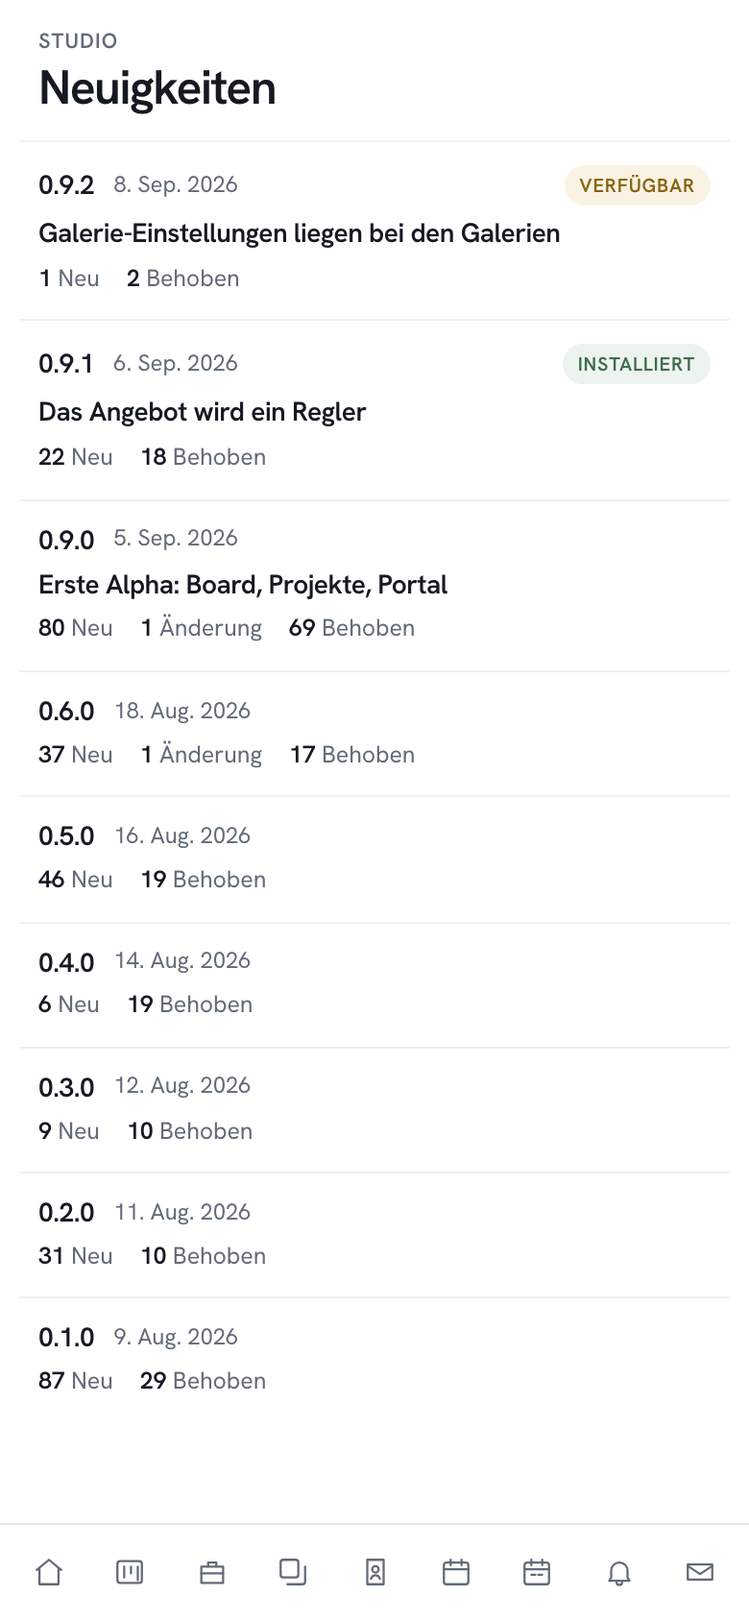
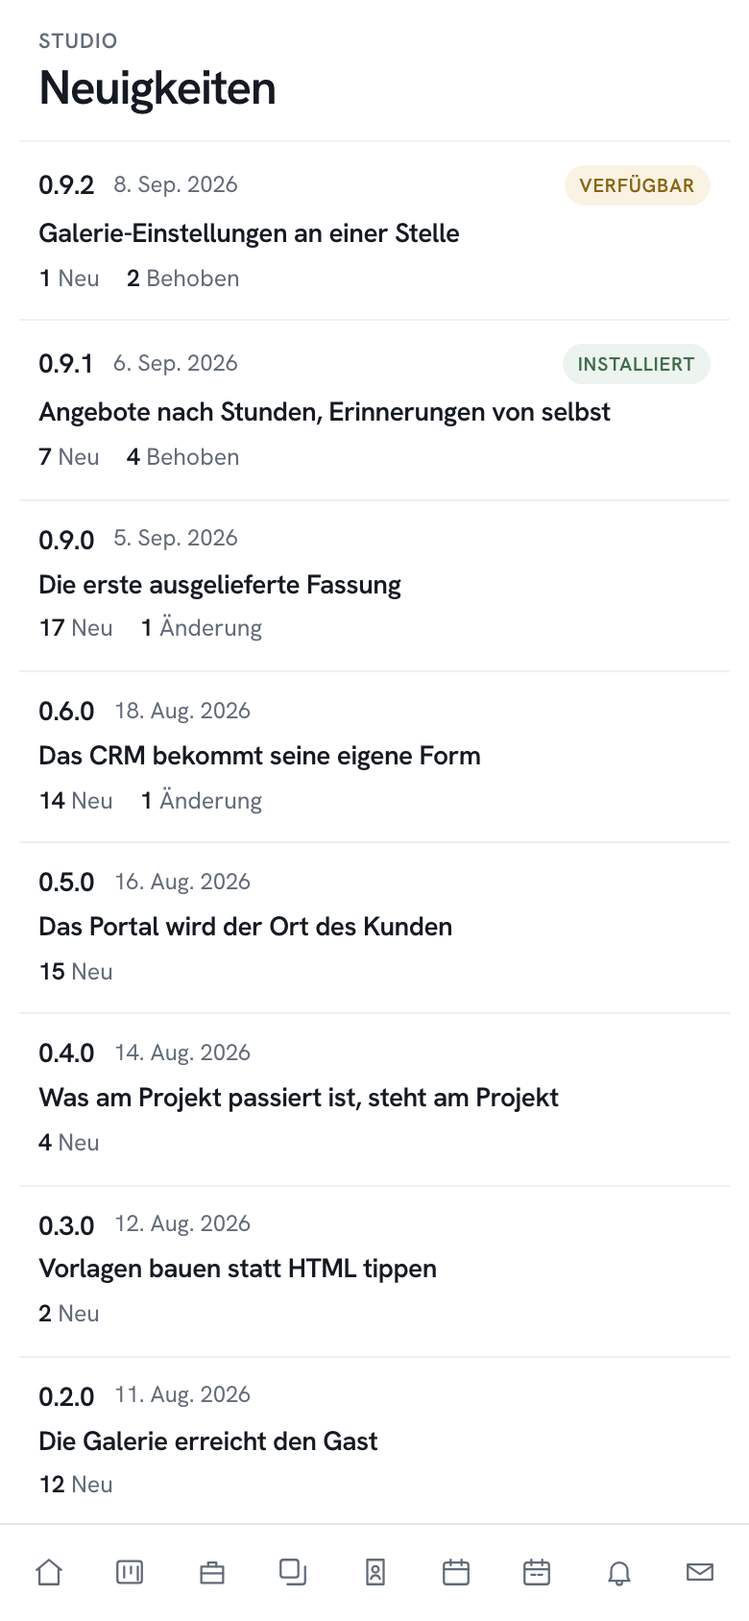
docs: Entwürfe auf die kuratierten Releases ziehen
release-log führt inzwischen headline, body und Einträge in der Sprache
des Fotografen — 95 statt 514 Zeilen, "Download-Link in der Fertigmeldung
lief nie ab" statt eines Commit-Betreffs. Damit fallen beide offenen
Punkte aus §7 weg und die erfundenen headlines aus dem Feed.

diff --git a/docs/mockups/2026-09-08-neuigkeiten/Detail.dc.html b/docs/mockups/2026-09-08-neuigkeiten/Detail.dc.html
@@ -52,7 +52,7 @@
   </style>
 </helmet>
 
-<div style="display:flex; min-height:2260px; background:#FFFFFF">
+<div style="display:flex; min-height:1240px; background:#FFFFFF">
 
   <nav style="width:214px; flex:none; display:flex; flex-direction:column; padding:18px 12px">
     <a href="#" style="display:flex; align-items:center; margin-bottom:1px; padding:0 10px 22px; font:600 17px/1 'Hanken Grotesk', system-ui, sans-serif; letter-spacing:-.024em; color:#151A22">Nordlicht</a>
@@ -102,11 +102,13 @@
         <span style="font:400 13px/1 'Hanken Grotesk', system-ui, sans-serif; color:#626B78; font-variant-numeric:tabular-nums">6. Sep. 2026</span>
         <span class="chip" style="background:#EDF3EE; color:#3F6B4A">Installiert</span>
       </div>
-      <div style="margin-top:14px; font:600 18px/1.3 'Hanken Grotesk', system-ui, sans-serif; letter-spacing:-.022em">Das Angebot wird ein Regler</div>
+      <div style="margin-top:14px; font:600 18px/1.3 'Hanken Grotesk', system-ui, sans-serif; letter-spacing:-.022em">Angebote nach Stunden, Erinnerungen von selbst</div>
+      <p style="margin:12px 0 0; max-width:620px; font:400 13px/1.6 'Hanken Grotesk', system-ui, sans-serif; color:#626B78">Ein Angebot kann jetzt ein Stundenregler mit Bausteinen sein, den der Kunde im Portal selbst einstellt. Offene Aufgaben, unbeantwortete Anfragen und überfällige Raten erinnern in wachsenden Abständen, wahlweise als Tagesüberblick.</p>
+      <p style="margin:12px 0 0; max-width:620px; font:400 13px/1.6 'Hanken Grotesk', system-ui, sans-serif; color:#626B78">Dazu ein eigenes Mail-Layout mit zwei Absenderrollen und eine neue Farb- und Schriftrichtung: kühles Petrol und Hanken Grotesk statt Rost-Orange.</p>
     </div>
 
     <div style="padding:20px 32px 0">
-      <img src="0.9.1-angebot-regler.jpg" alt="Das Angebot als Regler im Portal" style="display:block; width:560px; border-radius:12px; border:1px solid #E2E7EB">
+      <img src="0.9.1-angebot-regler.jpg" alt="Angebot mit Stundenregler im Portal" style="display:block; width:560px; border-radius:12px; border:1px solid #E2E7EB">
     </div>
 
     <div style="display:flex; gap:8px; padding:24px 32px 0">
@@ -139,7 +141,7 @@
 </div>
 </x-dc>
 
-<script data-dc-script data-props='{"$preview":{"width":1440,"height":2260}}'>
+<script data-dc-script data-props='{"$preview":{"width":1440,"height":1240}}'>
 class Component extends DCLogic {
   constructor(props) {
     super(props);
@@ -150,53 +152,24 @@ class Component extends DCLogic {
     // Titel und Beschreibungen stehen so in release-log/releases/0.9.1.json.
     const sections = [
       {
-        key: "feat", label: "Neu", bg: "#EDF3EE", fg: "#3F6B4A",
+        key: "new", label: "Neu", bg: "#EDF3EE", fg: "#3F6B4A",
         alle: [
-          { titel: "Regler im Portal, Bausteine im Studio", text: "Q-13 und Q-14, dazu die Bildpflege aus Q-10 an Katalog und Einstellungen.\n\nBildpfade kommen nie aus einem Formular zurueck: das Angebot liefert die\nDatei an den Kunden aus, und ein uebernommener Pfad waere das Lesen jeder\nDatei auf dem Disk. Das Formular schickt die id, der Controller schlaegt\nden Pfad an der eigenen Zeile nach." },
-          { titel: "Angebot als Regler — Felder, Regel und Annahme", text: "Q-08 bis Q-12 und Q-15 auf der Serverseite. hourly_rate null ist die\nWeiche: jedes bestehende Angebot faellt darunter und bleibt eine\nPositionsliste.\n\ntotal wird nicht ersetzt, es entsteht spaeter — AcceptQuote schreibt es\nzusammen mit hours und der Auswahl, danach gilt fuer Board, PDF und\nZahlungsplan wieder genau das, was vorher galt." },
-          { titel: "Anfrage auf dem Board schliessen", text: "markLost() hatte keinen Aufrufer, der Ausgang aus T-20 damit keinen\nSchreiber. Kontextmenue der Karte, Ausgang und Grund in einem Dialog." },
-          { titel: "Automationen fuer Studio, Crew und vier Anker", text: "E-14, E-15 und E-16. recipientFor() liefert eine Collection statt eines\nContacts; der Anspruch auf den AutomationRun bleibt vor dem Fanout, damit\nein zweiter Lauf am selben Tag weiterhin nichts sendet.\n\nPlatzhalter kommen aus dem Merge-Feld-Vokabular der Dokumente, nicht aus\neiner zweiten Sprache. Ein unbekanntes Feld bleibt stehen." },
-          { titel: "Erinnerungen an den Kunden", text: "T-25 und T-28. Beide Kundenwege beginnen auf der zweiten Sprosse und\nzaehlen eigene Zaehler: das Studio darf frueher und oefter erfahren, was\nder Kunde erst danach liest." },
-          { titel: "Zahlungsverzug melden und Tagesueberblick", text: "T-22 und T-23. notification_preferences.mode macht aus der Ableitung\n\"Mail aus, In-App an\" einen gespeicherten Wert, weil Zusammenfassung und\nTagesueberblick sonst nicht unterscheidbar waeren." },
-          { titel: "Erinnerungen fuer Aufgaben und Anfragen", text: "T-19, T-20 und T-24. Die Fibonacci-Leiter liegt in App\\Support, weil ab\nT-22 auch Raten auf ihr zaehlen. leads.outcome ersetzt lost_at als\nAbschlusskennzeichen; lost_at bleibt der Zeitstempel aller drei Ausgaenge." },
-          { titel: "sign and expire the zip-ready mail link", text: "The \"Herunterladen\" link in GalleryZipReady was a bare, permanent URL\nto the download screen — unlike the per-part links it hands out\n(already signed, 24h), a forwarded or leaked copy of this one worked\nforever. GalleryDownloadLink stores a reusable, hashed token instead\nof a Laravel signed route: NotifyZipWaiters runs on the queue worker,\nwhich always boots APP_SURFACE=admin (docker-compose.yml), so it has\nno portal route table to sign against the way\nGalleryDownloadController::partUrl() can from a live portal request.\nThe stored token needs no route table on either end.\n\nThe archive itself is unaffected — a stale one is still rebuilt on\nrequest from the download screen (prepare()), same as before; only\nthe mail's own link now has a bound lifetime (7 days).\n\nAlso rewrites the mail's body copy: it previously narrated the\narchive being packed and appended the part count with an em-dash\nrather than saying what the client's photos are doing." },
-          { titel: "add marketing screenshot seeder", text: "" },
-          { titel: "kühle Petrol-Palette und Hanken Grotesk statt Rost-Orange", text: "Der Rost-Akzent (#B44E22) und Instrument Sans/Serif waren das übliche\nKlischee für ein KI-generiertes Interface. Ersetzt in Admin, Portal\nund den zugehörigen Mockups:\n\n- Neutrale Rampe auf kühles Blaugrau, Akzent auf Petrol (#1C6870)\n- Instrument Sans/Serif raus, Hanken Grotesk als einzige Familie für\n  Titel und Text — kein Serif-Display mehr\n- FontPair::Instrument → FontPair::Hanken, der Default bleibt gleich\n- Dokumenten-PDF (Gotenberg) und Vorschau-Pane ziehen die Hausschrift\n  mit\n- mockups/_shared und mockups/redesign gespiegelt, da im Code als\n  Source of Truth referenziert\n\nBewusst ausgelassen: die dunkle Galerie behält ihren eigenen Akzent\n(#D4713F) und ihre statischen Klickdummy-Einzelseiten — beides war\nnicht Teil der abgestimmten Richtung.\n\nNicht in diesem Commit geprüft: Die Docker-Umgebung für Pest- und\nPlaywright-Tests konnte in dieser Session nicht gestartet werden\n(.env-Erstellung verweigert). Der FontPair-Umbenennung wurde jede\nFundstelle einzeln nachverfolgt; die 97 visuellen E2E-Baselines\nmüssen nach diesem Merge neu aufgenommen werden." },
-          { titel: "remind an unfinished studio after two days", text: "" },
-          { titel: "send the ready mail on onboarding completion", text: "Fixes blocks-message.blade.php's conditional :brand attribute inside\nthe component tag, which broke Blade's tag compiler and made every\nmail through this view a ViewException — both current callers always\npass a brand, same as product-message.blade.php already does." },
-          { titel: "send the welcome mail on studio setup", text: "" },
-          { titel: "confirm the owner's email from the wizard", text: "" },
-          { titel: "verify the owner's email by link or code", text: "" },
-          { titel: "two-brand layout via composer and explicit-brand views", text: "" },
-          { titel: "compile MJML layout and button at build time", text: "" },
-          { titel: "Team-Einladung mit Funktionsbloecken", text: "" },
-          { titel: "Adressen und Team-Einladung ueberarbeitet", text: "" },
-          { titel: "Onboarding-Mails als Clickdummy", text: "" },
-          { titel: "Rechnung braucht Steuernummer", text: "§ 14 UStG verlangt Steuernummer oder USt-IdNr., beide Starter-Vorlagen\nrendern das Paar. Seit der Wizard danach nicht mehr fragt, ist das\nAusstellen die Stelle, an der die Angabe fällig wird.\n\nDer Guard steht vor der Transaktion: eine gezogene Nummer für ein\nDokument, das nicht ausgestellt werden kann, risse eine Lücke in die\nRechnungsfolge." },
-          { titel: "Wizard auf zwei Schritte", text: "Fünf der sechs Schritte bestätigten nur Spalten-Defaults aus den\nstudio_settings-Migrationen. Was bleibt: Rechtsidentität, die niemand\nraten kann, und vat_mode, der einzige Default, der aktiv falsch sein\nkann. Steuernummer, USt-ID und Register-Paar fallen erst mit der ersten\nRechnung an.\n\nDie Starter-Vorlagen wählt der Abschluss selbst — inklusive\n\"später abschließen\", weil ein Studio ohne Vorlagen nichts ausstellen\nkann. Kleinunternehmer bekommt die Rechnung ohne USt-Ausweis." },
+          { titel: "Angebot als Stundenregler", text: "Ein Angebot muss nicht mehr eine feste Positionsliste sein. Es kann stattdessen auf einem Stundensatz stehen: der Kunde zieht im Portal den Regler auf die Stundenzahl, die er möchte, und wählt dazu Bausteine aus. Der Preis rechnet mit.\n\nIm Studio wird das eingerichtet — Stundensatz, Spannen und die Tabelle der Bausteine, jeder mit Bild und Beschreibung.\n\nBestehende Angebote bleiben unverändert Positionslisten; ohne Stundensatz greift der Regler gar nicht erst.\n\nErst die Annahme legt die Summe fest, zusammen mit der gewählten Stundenzahl und der Auswahl. Danach gilt für Board, PDF und Zahlungsplan wieder genau das, was vorher galt." },
+          { titel: "Erinnerungen für Studio, Crew und Kunden", text: "Offene Aufgaben, unbeantwortete Anfragen und überfällige Raten erinnern jetzt von selbst, in wachsenden Abständen statt täglich in gleicher Lautstärke.\n\nStudio und Kunde zählen dabei getrennt: der Kunde bekommt seine erste Erinnerung später und seltener. Das Studio darf früher erfahren, was der Kunde erst danach liest.\n\nDazu ein Tagesüberblick als eine Nachricht statt vieler einzelner. Ob jemand einzelne Meldungen, eine Zusammenfassung oder den Tagesüberblick möchte, ist jetzt eine gespeicherte Wahl und keine Ableitung aus \"Mail aus, In-App an\".\n\nAutomatisierungsregeln erreichen jetzt auch das Studio und die eingeteilte Crew, nicht nur den Kunden, und es gibt vier neue Zeitpunkte, an die sich eine Regel hängen kann. Die Platzhalter sind dieselben wie in den Dokumentvorlagen; ein unbekanntes Feld bleibt sichtbar stehen, statt den Satz stillschweigend zu leeren.\n\nAufgaben bekommen eine studioweite Ansicht unter /aufgaben. Jemandem eine Aufgabe zuzuweisen ändert wenig, solange niemand sie über alle Projekte hinweg sieht." },
+          { titel: "Anfrage auf dem Board schließen", text: "Eine Anfrage ließ sich abschließen — nur gab es dafür keine Bedienung. Über das Kontextmenü der Karte wird sie jetzt geschlossen, mit Ausgang und Grund in einem Dialog." },
+          { titel: "E-Mails aus einem Guss", text: "Die Mails standen bisher auf Laravels Standardvorlage. Sie haben jetzt ein eigenes Layout mit zwei Absenderrollen: die Mail des Produkts an das Studio und die Mail des Studios an seine Kunden tragen jeweils die richtige Marke im Kopf.\n\nNeu dazu: eine Willkommensmail bei der Einrichtung, eine Nachricht, wenn das Studio startklar ist, und nach zwei Tagen eine Erinnerung an eine unfertige Einrichtung.\n\nDie Adresse des Inhabers wird beim Einrichten bestätigt, per Link oder mit einem Code.\n\nDabei behoben, jeweils sichtbar in jeder betroffenen Mail: Fußzeilen fehlten vollständig, Überschriften standen als \"# \" im Text, Fettung als Sternchen und der Abmeldelink als toter Text statt als Link. Die Hilfszeile unter jeder Schaltfläche stand auf Englisch, neun Schaltflächen zeigten auf einen unvollständigen Pfad, den kein Mailprogramm auflösen kann, und jede Mail trug zwei Absenderzeilen übereinander. Die Einladung an Mitarbeiter kündigte weiterhin eine Pflicht zur Zwei-Faktor-Bestätigung an, die längst freiwillig ist." },
+          { titel: "Kühles Petrol statt Rost-Orange", text: "Der rostorange Akzent und das Schriftpaar Instrument waren das übliche Klischee für eine maschinell entworfene Oberfläche.\n\nDie neutrale Skala wird kühles Blaugrau, der Akzent Petrol. Hanken Grotesk ersetzt Instrument als einzige Familie für Titel und Text; ein eigenes Serif-Display gibt es nicht mehr. Dokument-PDF und Vorschau ziehen die Hausschrift mit.\n\nDie dunkle Galerie behält bewusst ihren eigenen Akzent — sie war nicht Teil dieser Richtung." },
+          { titel: "Einrichtung auf zwei Schritte", text: "Fünf der sechs Schritte bestätigten nur Voreinstellungen. Übrig bleibt, was niemand raten kann: die Rechtsidentität und der Umsatzsteuermodus — die einzige Voreinstellung, die aktiv falsch sein kann.\n\nSteuernummer, USt-IdNr. und Registerangaben fallen erst mit der ersten Rechnung an. Die Auswahl der Startvorlagen macht der Abschluss selbst, samt \"später abschließen\" — ohne Vorlagen lässt sich nichts ausstellen." },
+          { titel: "Rechnung verlangt die Steuernummer", text: "§ 14 UStG verlangt Steuernummer oder USt-IdNr. Seit der Einrichtungsassistent nicht mehr danach fragt, ist das Ausstellen der Moment, an dem die Angabe fällig wird.\n\nGeprüft wird, bevor eine Nummer gezogen wird: eine vergebene Nummer für ein Dokument, das sich nicht ausstellen lässt, risse eine Lücke in die Rechnungsfolge." },
         ],
       },
       {
-        key: "fix", label: "Behoben", bg: "#F0F3F5", fg: "#626B78",
+        key: "fixed", label: "Behoben", bg: "#F0F3F5", fg: "#626B78",
         alle: [
-          { titel: "Regler-Screens an die Entwuerfe angleichen", text: "Beide Flaechen nach den HTML-Vorlagen: Reihenfolge, Raster mit acht bzw.\nzwoelf Spalten, Haken auf der Baustein-Kachel, Rail als Karte mit\nTrennlinien; im Studio die 112-px-Rinne, die Tabelle der Bausteine und\ndie drei Spannen-Kacheln.\n\ntext-accent zeigte auf --hover statt auf die Markenfarbe — drei Stellen,\nzwei davon aus der Runde davor." },
-          { titel: "Flaechen an die Mockups angleichen", text: "Ereignisregeln waren ueber ihre eigene Flaeche nicht speicherbar: der\nValidator verlangte Anker und Abstand, die AutomationRule::booted() bei\neiner Ereignisregel gerade verbietet.\n\nDazu die Aufgabenflaeche des Studios (/aufgaben) aus t-24, die es noch\nnicht gab — eine Zuweisung ohne studioweite Sicht darauf aendert nichts." },
-          { titel: "Fusszeile in die Fusszone statt in den Rumpf", text: "Die Views setzten <x-slot:footer>, das kompilierte Layout las $subcopy.\nBlade wirft bei einem nie ausgegebenen Slot nicht, also verschwand jede\nFusszeile still. Signatur und Rechtszeile hingen zugleich als ->line()\nim Rumpf.\n\nlayout.mjml bekommt eine eigene, per @if uebersprungene Fusszone. Beide\nFusszeilen bildet jetzt der mail::layout-Composer: Blade reicht Ansichts-\ndaten in keine verschachtelte Komponente, deshalb erreicht nur er den\nScope des Layouts -- aus demselben Grund wird dort schon brand aufgeloest." },
-          { titel: "parse markdown in the compiled layout slot", text: "The MJML-compiled layout.blade.php echoed $slot raw instead of\nrunning it through Illuminate\\Mail\\Markdown::parse(), unlike Laravel's\nown stock layout it replaced. Every notification's greeting rendered\nas a literal \"# \" heading, **bold** stayed literal asterisks, and\nQuoteSent's [unsubscribe](url) markdown link rendered as dead text\ninstead of an anchor — a live compliance-link bug. button.mjml's slot\n(the label text) is left unparsed; only layout.mjml's __SLOT__ needed\nthis." },
-          { titel: "translate the action-button subcopy to German", text: "Laravel's default \"If you're having trouble clicking...\" action\nsubcopy has no German override anywhere in lang/, so it rendered in\nEnglish on every client mail with a button despite app.locale=de." },
-          { titel: "seed a real comment, precondition docblock", text: "MarketingScreenshotSeeder now seeds one AssetComment so the\n\"mit Favoriten und Kommentaren\" gallery-detail screenshot shows a real\ncomment, not just a favorite. Docblock spells out the precondition the\ncapture pass depends on: run alone against a freshly migrated DB, never\non top of DemoCrmSeeder.\n\nAlso fixes two stale apps/marketing mentions in the marketing-page\ndesign spec that predate the repo-split decision §4/§8 already made." },
-          { titel: "attach real photos to marketing gallery", text: "Melissa & Jan's published gallery had zero Asset rows, defeating the\nscreenshot capture task's gallery grid/detail shots. Reuses\nE2eSeeder's flat-JPEG-to-s3-disk pattern to attach 7 placeholder\nphotos and mark two as favorites." },
-          { titel: "register SendStudioDigestsCommand", text: "notifications:send-digests was never listed in withCommands(), so the\nscheduled call in routes/console.php resolved to nothing." },
-          { titel: "hide the code field without a live record", text: "UserEmailVerification expires after 30 minutes or 5 attempts, and\nthere is no resend, so the form could only fail from then on." },
-          { titel: "absolute CTA links and honest address count", text: "Nine buttons carried bare paths, which no mail client resolves.\n\nStudioReady announced \"zwei eigene Adressen\" even though\ninbound_secret is null until a studio rotates one by hand, so the\ninbound block only ships when there is an address to show." },
-          { titel: "unnest the button and drop Laravel chrome", text: "MJML compiles every source into a complete HTML document, so each\n<x-mail::button> embedded a second <html>/<head>/<style> inside the\nouter layout. Non-layout sources now keep only their <body> content.\n\n__HEADER__/__FOOTER__ rendered Laravel's own unpublished header and\nits English copyright line next to our brand banner — two wordmarks\nper mail. The layout's own banner carries the identity." },
-          { titel: "replace StaffInvited's stale 2FA line with real blocks", text: "Drops the \"richtest du die Zwei-Faktor-Bestätigung ein\" line (MFA is\nopt-in per InvitationController) and adds calendar-subscription and\nreply-threading blocks via mail.blocks-message.\n\nFixes the composer fallback that path needed: blocks-message.blade.php\nunconditionally referenced $brand, which only product mails ever set,\nso the studio path (no explicit brand) threw an undefined-variable\nerror instead of falling through to the mail::layout composer default." },
-          { titel: "fallback body for unrotated inbound secret", text: "StudioReady rendered a dangling \"Die kannst du...\" fragment when\ninbound_secret was null, which it is by default for every studio\nuntil they opt into RotateInboundSecret." },
-          { titel: "allowlist the email-verification link route", text: "" },
-          { titel: "API-Client mit Bearer der Session", text: "Der Client wurde einmal beim Start aus CRM_API_TOKEN gebaut, und die\nVariable ist nirgends gesetzt. Jeder Tool-Aufruf traf die api-Surface\nalso ohne Authorization, bekam den 302 nach /login und damit HTML statt\neiner Fehlermeldung — \"The api surface returned an error with no\nmessage.\" Der Token aus der OAuth-Session lag in req.auth und wurde nie\nbenutzt.\n\nJetzt baut jeder Aufruf seinen Client aus extra.authInfo. Ohne Session\n(stdio) bleibt CRM_API_TOKEN der Fallback." },
-          { titel: "Reassurance im Einladungsblock ersetzt", text: "" },
-          { titel: "2FA-Block und erfundene Grussformeln raus", text: "" },
-          { titel: "Portal-Links gegen den Portal-Host", text: "QuoteSent baute Angebots- und Abmelde-Link mit url(), also gegen APP_URL.\nVersendet wird aus SendQuote auf der Admin-Oberfläche, und eine in die\nRuhezeit gefallene DeferredNotification rendert toMail() später auf dem\nWorker, der ebenfalls admin ist. Beide Male stand der Studio-Host vor\neiner Route, die nur das Portal bedient. Jetzt config('portal.url').\n\nDie übrigen Portal-Mails bauen ihre URL im Portal-Request und reichen sie\nals String weiter; dort bleibt url() richtig.\n\nAPP_URL von horizon und scheduler zeigt wieder auf die eigene Oberfläche.\n60b58807 hatte beide auf die Portal-Domain gesetzt, um genau diesen\nFehler zu umgehen, wodurch StudioDigests /benachrichtigungen den\nPortal-Host bekam; PORTAL_URL steht jetzt explizit auf beiden. Regel 5 im\nCompose-Checker hält APP_URL und APP_SURFACE zusammen." },
+          { titel: "KI-Assistent erreichte die Schnittstelle nicht", text: "Jeder Werkzeugaufruf lief ohne Anmeldung gegen die Schnittstelle, bekam die Weiterleitung zur Anmeldeseite und damit HTML statt einer Antwort. Nach außen sah das aus wie \"die Schnittstelle meldet einen Fehler ohne Meldung\".\n\nDer Zugang aus der laufenden Sitzung lag bereit und wurde nie verwendet. Jetzt baut jeder Aufruf seine Verbindung daraus." },
+          { titel: "Angebotsmail verwies auf den falschen Host", text: "Der Link zum Angebot und der Abmeldelink zeigten auf den Studio-Host, obwohl beide Adressen nur das Portal bedient. Betroffen war jede Angebotsmail, sowohl der sofortige Versand als auch der, der wegen einer Ruhezeit später herausging." },
+          { titel: "Download-Link in der Fertigmeldung lief nie ab", text: "Die Meldung \"Archiv fertig\" enthielt einen unbefristeten Link auf die Download-Seite — anders als die Links auf die einzelnen Archivteile, die nach 24 Stunden ablaufen. Eine weitergeleitete oder abgefangene Kopie funktionierte damit dauerhaft.\n\nDer Link gilt jetzt sieben Tage. Am Archiv selbst ändert sich nichts; ein veraltetes wird auf der Download-Seite weiterhin neu gebaut." },
+          { titel: "Ereignisregeln ließen sich nicht speichern", text: "Eine Automatisierungsregel, die auf ein Ereignis hört, war über ihre eigene Fläche nicht speicherbar: die Prüfung verlangte Anker und Abstand, die eine Ereignisregel gerade nicht haben darf." },
         ],
       }
     ];
@@ -206,6 +179,7 @@ class Component extends DCLogic {
     const pfeilAuf = 'M6 9l6 6 6-6';
 
     return {
+      update: true,
       f: {
         alle: () => this.setState({ filter: 'alle' }),
         alleOn: filter === 'alle' ? 'on' : '',

diff --git a/docs/mockups/2026-09-08-neuigkeiten/Mobil.dc.html b/docs/mockups/2026-09-08-neuigkeiten/Mobil.dc.html
@@ -99,15 +99,15 @@ class Component extends DCLogic {
     const INSTALLIERT = { marke: 'Installiert', markeBg: '#EDF3EE', markeFg: '#3F6B4A' };
 
     const roh = [
-      { nummer: '0.9.2', datum: '8. Sep. 2026', ...VERFUEGBAR, headline: 'Galerie-Einstellungen liegen bei den Galerien', feat: 1, perf: 0, fix: 2 },
-      { nummer: '0.9.1', datum: '6. Sep. 2026', ...INSTALLIERT, headline: 'Das Angebot wird ein Regler', feat: 22, perf: 0, fix: 18 },
-      { nummer: '0.9.0', datum: '5. Sep. 2026', headline: 'Erste Alpha: Board, Projekte, Portal', feat: 80, perf: 1, fix: 69 },
-      { nummer: '0.6.0', datum: '18. Aug. 2026', headline: null, feat: 37, perf: 1, fix: 17 },
-      { nummer: '0.5.0', datum: '16. Aug. 2026', headline: null, feat: 46, perf: 0, fix: 19 },
-      { nummer: '0.4.0', datum: '14. Aug. 2026', headline: null, feat: 6, perf: 0, fix: 19 },
-      { nummer: '0.3.0', datum: '12. Aug. 2026', headline: null, feat: 9, perf: 0, fix: 10 },
-      { nummer: '0.2.0', datum: '11. Aug. 2026', headline: null, feat: 31, perf: 0, fix: 10 },
-      { nummer: '0.1.0', datum: '9. Aug. 2026', headline: null, feat: 87, perf: 0, fix: 29 },
+      { nummer: "0.9.2", datum: "8. Sep. 2026", ...VERFUEGBAR, headline: "Galerie-Einstellungen an einer Stelle", feat: 1, perf: 0, fix: 2 },
+      { nummer: "0.9.1", datum: "6. Sep. 2026", ...INSTALLIERT, headline: "Angebote nach Stunden, Erinnerungen von selbst", feat: 7, perf: 0, fix: 4 },
+      { nummer: "0.9.0", datum: "5. Sep. 2026", headline: "Die erste ausgelieferte Fassung", feat: 17, perf: 1, fix: 0 },
+      { nummer: "0.6.0", datum: "18. Aug. 2026", headline: "Das CRM bekommt seine eigene Form", feat: 14, perf: 1, fix: 0 },
+      { nummer: "0.5.0", datum: "16. Aug. 2026", headline: "Das Portal wird der Ort des Kunden", feat: 15, perf: 0, fix: 0 },
+      { nummer: "0.4.0", datum: "14. Aug. 2026", headline: "Was am Projekt passiert ist, steht am Projekt", feat: 4, perf: 0, fix: 0 },
+      { nummer: "0.3.0", datum: "12. Aug. 2026", headline: "Vorlagen bauen statt HTML tippen", feat: 2, perf: 0, fix: 0 },
+      { nummer: "0.2.0", datum: "11. Aug. 2026", headline: "Die Galerie erreicht den Gast", feat: 12, perf: 0, fix: 0 },
+      { nummer: "0.1.0", datum: "9. Aug. 2026", headline: "Vom Erstkontakt bis zur fertigen Galerie", feat: 15, perf: 0, fix: 0 },
     ];
 
     return {

diff --git a/docs/mockups/2026-09-08-neuigkeiten/Main.dc.html b/docs/mockups/2026-09-08-neuigkeiten/Main.dc.html
@@ -128,15 +128,15 @@ class Component extends DCLogic {
 
     // Die Zähler stehen so in release-log/releases/*.json.
     const roh = [
-      { nummer: '0.9.2', datum: '8. Sep. 2026', ...VERFUEGBAR, headline: 'Galerie-Einstellungen liegen bei den Galerien', feat: 1, perf: 0, fix: 2 },
-      { nummer: '0.9.1', datum: '6. Sep. 2026', ...INSTALLIERT, headline: 'Das Angebot wird ein Regler', feat: 22, perf: 0, fix: 18 },
-      { nummer: '0.9.0', datum: '5. Sep. 2026', headline: 'Erste Alpha: Board, Projekte, Portal', feat: 80, perf: 1, fix: 69 },
-      { nummer: '0.6.0', datum: '18. Aug. 2026', headline: null, feat: 37, perf: 1, fix: 17 },
-      { nummer: '0.5.0', datum: '16. Aug. 2026', headline: null, feat: 46, perf: 0, fix: 19 },
-      { nummer: '0.4.0', datum: '14. Aug. 2026', headline: null, feat: 6, perf: 0, fix: 19 },
-      { nummer: '0.3.0', datum: '12. Aug. 2026', headline: null, feat: 9, perf: 0, fix: 10 },
-      { nummer: '0.2.0', datum: '11. Aug. 2026', headline: null, feat: 31, perf: 0, fix: 10 },
-      { nummer: '0.1.0', datum: '9. Aug. 2026', headline: null, feat: 87, perf: 0, fix: 29 },
+      { nummer: "0.9.2", datum: "8. Sep. 2026", ...VERFUEGBAR, headline: "Galerie-Einstellungen an einer Stelle", feat: 1, perf: 0, fix: 2 },
+      { nummer: "0.9.1", datum: "6. Sep. 2026", ...INSTALLIERT, headline: "Angebote nach Stunden, Erinnerungen von selbst", feat: 7, perf: 0, fix: 4 },
+      { nummer: "0.9.0", datum: "5. Sep. 2026", headline: "Die erste ausgelieferte Fassung", feat: 17, perf: 1, fix: 0 },
+      { nummer: "0.6.0", datum: "18. Aug. 2026", headline: "Das CRM bekommt seine eigene Form", feat: 14, perf: 1, fix: 0 },
+      { nummer: "0.5.0", datum: "16. Aug. 2026", headline: "Das Portal wird der Ort des Kunden", feat: 15, perf: 0, fix: 0 },
+      { nummer: "0.4.0", datum: "14. Aug. 2026", headline: "Was am Projekt passiert ist, steht am Projekt", feat: 4, perf: 0, fix: 0 },
+      { nummer: "0.3.0", datum: "12. Aug. 2026", headline: "Vorlagen bauen statt HTML tippen", feat: 2, perf: 0, fix: 0 },
+      { nummer: "0.2.0", datum: "11. Aug. 2026", headline: "Die Galerie erreicht den Gast", feat: 12, perf: 0, fix: 0 },
+      { nummer: "0.1.0", datum: "9. Aug. 2026", headline: "Vom Erstkontakt bis zur fertigen Galerie", feat: 15, perf: 0, fix: 0 },
     ];
 
     return {

diff --git a/docs/superpowers/specs/2026-09-08-neuigkeiten-design.md b/docs/superpowers/specs/2026-09-08-neuigkeiten-design.md
@@ -8,8 +8,8 @@
 ## 1. Warum das existiert
 
 Das Studio wird laufend deployed, und wer davor sitzt, erfährt nichts davon.
-Neun Versionen liegen inzwischen in `release-log` — 0.1.0 bis 0.9.2, 514
-Änderungen — und keine davon ist in der Anwendung sichtbar. Ein Fotograf, dem
+Neun Versionen liegen inzwischen in `release-log` — 0.1.0 bis 0.9.2, 95
+kuratierte Einträge — und keine davon ist in der Anwendung sichtbar. Ein Fotograf, dem
 die Angebotsseite plötzlich anders aussieht, hat keine Stelle, an der steht
 warum.
 
@@ -52,17 +52,15 @@ Die Bilder sind aus den Artboard-Quellen gerendert und liegen unter
 | Bild | Artboard | Was es zeigt |
 |---|---|---|
 | `docs/screenshots/2026-09-08-neuigkeiten-studio.png` | Main | der Feed: neun Releases, Zähler je Gruppe, Version mit Punkt unten in der Sidebar |
-| `docs/screenshots/2026-09-08-neuigkeiten-release.png` | Detail | `/neuigkeiten/0.9.1`: Bild, headline, Filter, 22 + 18 Einträge |
+| `docs/screenshots/2026-09-08-neuigkeiten-release.png` | Detail | `/neuigkeiten/0.9.1`: Bild, headline, body, Filter, 7 + 4 Einträge |
 | `docs/screenshots/2026-09-08-neuigkeiten-handy.png` | Mobil | der Feed auf 390px |
 | `docs/screenshots/2026-09-08-neuigkeiten-zustaende.png` | Marker | Versionszeile in drei Zuständen, die Markierungen, die Filterpillen |
 | `docs/screenshots/2026-09-08-neuigkeiten-dienst.png` | Quelle | der Weg aus release-log, die Endpunkte, die drei Gruppen |
 
 Canvas: https://claude.ai/code/artifact/28837ea9-cb16-48fb-ae0a-fb3bc3db41a2
 
-Alle Zahlen und alle Einträge in den Entwürfen stammen aus
-`release-log/releases/*.json`. Die einzige Ausnahme sind die drei
-`headline`-Zeilen im Feed: das Feld ist heute in allen neun Releases leer, und
-ohne es zeigt der Entwurf seinen eigenen Platz nicht.
+Alle Zahlen, Überschriften und Einträge in den Entwürfen stammen aus dem
+laufenden Dienst. Nichts davon ist geschrieben.
 
 ## 4. Der Weg vom Tag in den Screen
 
@@ -86,7 +84,7 @@ Was das Studio holt:
 | Endpunkt | Antwort |
 |---|---|
 | `GET /versions` | `latest` und je Release Version, Datum, `headline`, `url`. Der Update-Check. |
-| `GET /releases?page=1` | Der Feed. Je Release nur die **Zähler** je Gruppe — 0.9.0 hat 150 Einträge, deshalb trägt der Feed keine. |
+| `GET /releases?page=1` | Der Feed. Je Release nur die **Zähler** je Gruppe, nicht die Einträge. |
 | `GET /releases/<version>` | Ein Release mit allen Einträgen, in `sections` nach Gruppe sortiert. |
 | `GET /media/<datei>` | Das Bild des Releases. Drei von neun haben eins. |
 | `GET /health` | Für Coolify. |
@@ -101,19 +99,18 @@ vergleicht, muss deshalb zuerst auf Semver prüfen: `version_compare('dev',
 `bin/from-git.mjs` sagt es im Kopf selbst: alles Faktische liest es aus git,
 `headline`, `body` und `image` sind Handarbeit und überleben jeden Lauf.
 
-Aus git: `version`, `tag`, `date`, `commits` und jeder Eintrag in `changes` —
-`type`, `scope`, `title`, `description`, `pr`, `issues`, `commit`, `date`.
-`title` ist der Commit-Betreff unverändert, `description` der Rumpf ohne
-Trailer. `feat`, `fix` und `perf` zählen; `docs`, `ci`, `chore` und `test`
-fallen raus. Ein gequetschter Pull Request wird an seinen `* `-Aufzählungen
-wieder in seine einzelnen Commits zerlegt.
+Aus git kommen die Fakten: `version`, `tag`, `date`, `commits` und je Eintrag
+`type`, `pr`, `issues`, `commit`, `date`. `feat`, `fix` und `perf` zählen;
+`docs`, `ci`, `chore` und `test` fallen raus.
 
-Von Hand: `headline` ist der Satz, den der Fotograf im Feed liest. `body` sind
-Absätze darunter. `image` ist ein Screenshot aus `release-log/media/`.
+Von Hand kommt alles, was gelesen wird: `headline`, `body`, `image` je Release,
+und `title` und `description` je Eintrag. Der Dienst führt inzwischen 95
+Einträge statt der 514 Commits, die dahinterstehen — mehrere Commits an
+derselben Sache stehen als eine Zeile, in der Sprache des Fotografen
+(„Download-Link in der Fertigmeldung lief nie ab").
 
-Damit steht die Arbeitsteilung: das Detail zeigt Entwicklersprache, weil sie
-aus git kommt; der Feed zeigt die Zusammenfassung, weil sie geschrieben wird.
-Heute ist keine geschrieben (§7).
+Das Studio schreibt nichts davon und formatiert nichts um. Es zeigt, was der
+Dienst liefert.
 
 ## 6. Teile
 
@@ -144,12 +141,11 @@ Cache, der andere schreibt ihn. Die anderen Surfaces haben keinen Screen dafür.
 
 ## 7. Offen
 
-- **`headline` ist überall leer.** Ohne sie trägt eine Feed-Zeile nur Nummer,
-  Datum und drei Zahlen. Neun Releases wollen je einen Satz — oder der Feed
-  bekommt eine andere erste Zeile.
-- **Das Detail spricht Entwicklersprache.** Die 40 Zeilen zu 0.9.1 sind
-  Commit-Betreffe, ein Teil davon englisch („add new portal components and
-  functionality"). Wer sie für den Fotografen umschreiben will, braucht ein
-  Feld je Eintrag; heute gibt es nur `headline` je Release.
+- **Bilder gibt es für zwei von neun Releases.** Die anderen sieben zeichnen
+  die Detailseite ohne. Das ist kein Fehler, aber sieben Screenshots wären
+  besser als sieben Leerstellen.
+- **Sechs Releases tragen keine Behoben-Gruppe.** Der Dienst führt dort nur
+  Neuerungen. Ob die Fehler dieser Wochen fehlen oder bewusst nicht geführt
+  werden, entscheidet release-log, nicht das Studio.
 - **Farbe des Punkts.** Aktuell `--due` (#8A6212), das systemeigene „steht
   offen". Bei 6px liest es als Gold. Ein reines Gelb hat die Palette nicht.

diff --git a/docs/mockups/2026-09-08-neuigkeiten/README.md b/docs/mockups/2026-09-08-neuigkeiten/README.md
@@ -9,18 +9,17 @@ components and styling system rather than copy wholesale.
 
 Canvas: https://claude.ai/code/artifact/28837ea9-cb16-48fb-ae0a-fb3bc3db41a2
 
-Die Zahlen, Titel und Beschreibungen stammen aus `release-log/releases/*.json`
-und sind nicht erfunden. Ausnahme: die drei `headline`-Zeilen im Feed — das
-Feld ist dort heute in allen neun Releases leer, und ohne es zeigt der Entwurf
-seinen eigenen Platz nicht.
+Alle Zahlen, Überschriften, Titel und Beschreibungen stammen aus dem laufenden
+release-log. Nichts davon ist geschrieben.
 
 ## Contents
 
 - `Main.dc.html` — `/neuigkeiten`, der Feed. Neun Releases, je Zeile Nummer,
   Datum, headline und die Zähler je Gruppe. Unten in der Sidebar die
   installierte Version mit dem Punkt; der Schalter `update` nimmt ihn weg.
-- `Detail.dc.html` — `/neuigkeiten/0.9.1`. Bild, headline, Filter und die 40
-  Einträge des Releases nach Gruppen. Jede Zeile klappt ihre Beschreibung auf.
+- `Detail.dc.html` — `/neuigkeiten/0.9.1`. Bild, headline, body, Filter und die
+  elf Einträge des Releases nach Gruppen. Jede Zeile klappt ihre Beschreibung
+  auf.
 - `Mobil.dc.html` — der Feed auf 390px mit der Tab-Leiste des Telefons.
 - `Marker.dc.html` — die Zustände einzeln: Versionszeile über der Profilzeile
   (aktuell, neue Version da, offen), die Markierungen, die Filterpillen.
